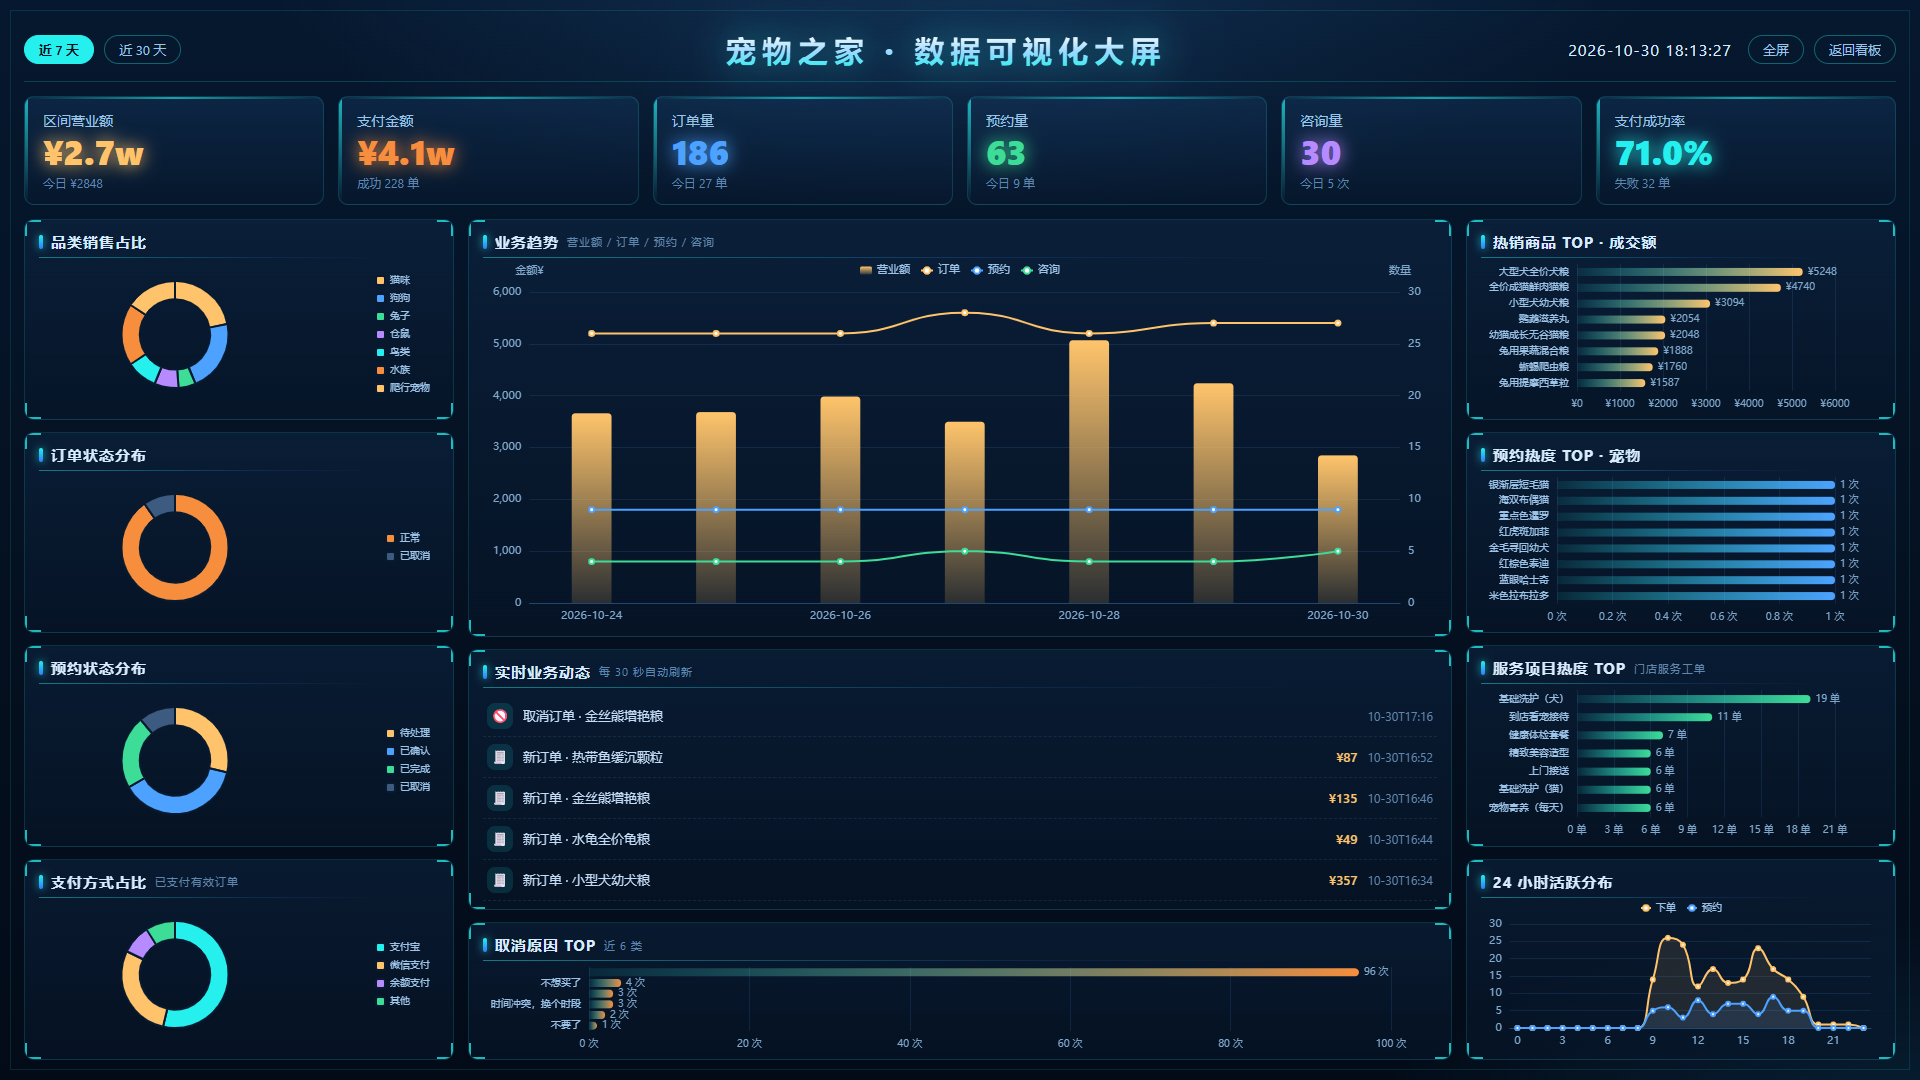
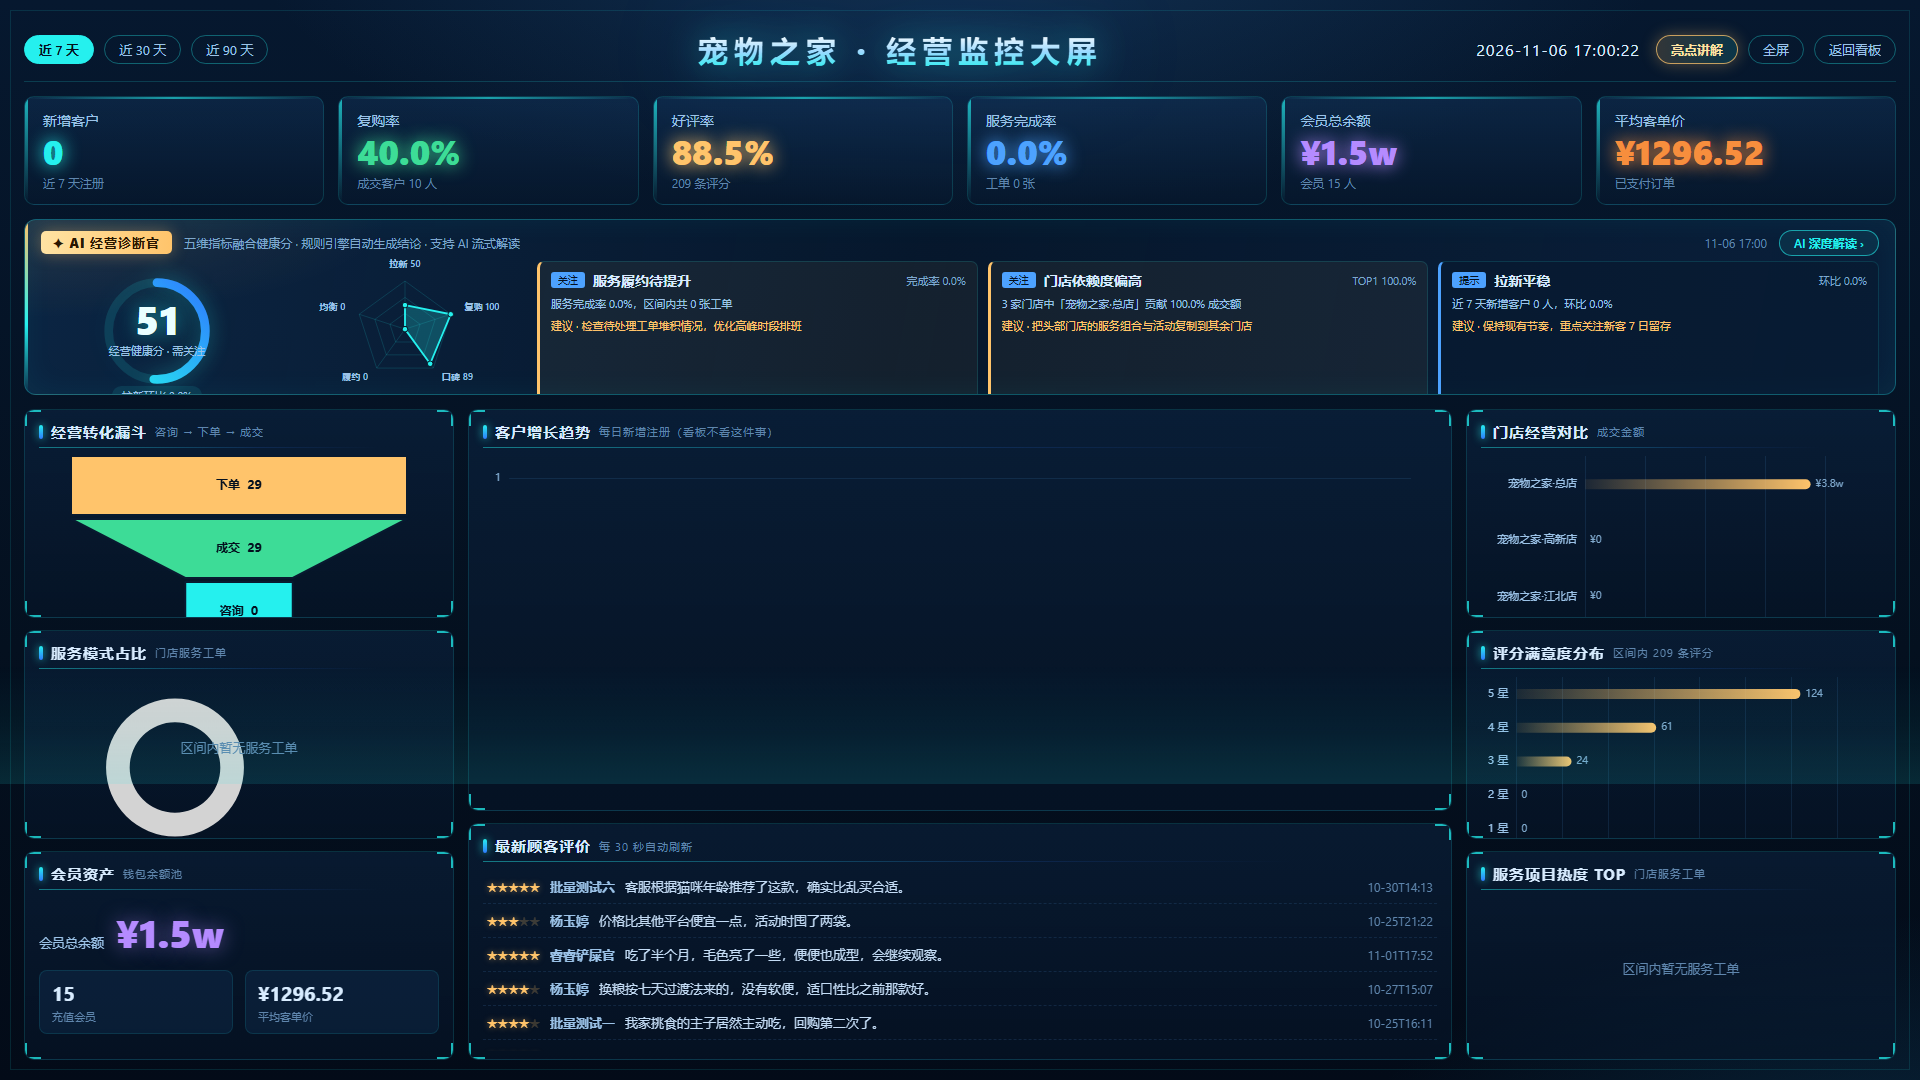
docs(readme): 更新功能详情与全站截图（2026-11 版）
- 界面预览扩到 7 图：首页/宠物粮/在售宠物/宠物详情/智能选宠/看板/大屏
- 大屏描述更新为 AI 经营诊断官 + 8 面板 + 30s 刷新（原 12 面板 60s 已过期）
- 功能清单补充：B 站风评论区（彩色昵称/楼中楼/评论点赞）、首页粮卡就地弹详情、
  宠物页页内改搜、专区页返回首页入口
- 演示数据说明更新为 90 天看板历史 + 近半月评论订单种子
- 新增 cdp_readme_shots.mjs 截图脚本；gitignore 增加 *.tar.gz / shots/

diff --git a/README.md b/README.md
@@ -6,15 +6,19 @@
 
 ## 界面预览
 
-**前台商城首页**
+| 前台商城首页 | 宠物粮专区 |
+| --- | --- |
+| ![前台商城](docs/screenshots/shop-home.png) | ![宠物粮专区](docs/screenshots/shop-food.png) |
 
-![前台商城](docs/screenshots/shop-home.png)
+| 在售宠物 | 宠物详情 |
+| --- | --- |
+| ![在售宠物](docs/screenshots/shop-pets.png) | ![宠物详情](docs/screenshots/shop-pet-detail.png) |
 
-**运营后台 · 数据看板**
+| 智能选宠 | 运营后台 · 数据看板 |
+| --- | --- |
+| ![智能选宠](docs/screenshots/shop-match.png) | ![数据看板](docs/screenshots/admin-dashboard.png) |
 
-![数据看板](docs/screenshots/admin-dashboard.png)
-
-**可视化大屏（1920×1080，可从看板一键切换）**
+**可视化大屏（1920×1080，AI 经营诊断官 + 8 面板，30 秒自动刷新，可从看板一键切换）**
 
 ![可视化大屏](docs/screenshots/admin-bigscreen.png)
 
@@ -22,8 +26,9 @@
 
 ### 前台商城（`/shop/*`）
 
-- **在售宠物**：首页筛选条、评分角标、宠物详情（健康记录、预约入口、社交互动）
-- **宠物粮商城**：14 款在售粮，独立评论/点赞体系（与宠物评论通过 `target_type` 隔离）
+- **在售宠物**：首页筛选条、评分角标、宠物详情（健康记录、预约入口、社交互动）；列表页筛选栏可直接换品种重搜，无需返回首页
+- **宠物粮商城**：14 款在售粮，独立评论/点赞体系（与宠物评论通过 `target_type` 隔离）；首页粮卡片点击就地弹出详情卡片（含评论区），专区页顶部提供返回首页入口
+- **社区化评论区**：B 站风格改版——彩色昵称 + 等级徽章、楼中楼折叠展开、评论点赞（`pet_comment_like` 表防重），宠物详情页与服务预约评价共用同一套组件
 - **购物车与订单**：结算收银台（支付宝 / 微信 / 余额三种通道，余额不足实时提示）、订单分组展示、未支付取消
 - **门店服务预约**：自助预约不绑定宠物，支持联系人 / 地址 / 数量，免费项目自动确认，取消自动退款
 - **AI 智能助手**：接入 Pollinations 免费大模型（OpenAI 兼容、免 Key），SSE 流式输出，意图路由（商品推荐 / 订单咨询 / 智能选宠 / 养宠知识），已支付订单卡片可点击直接发起咨询
@@ -37,7 +42,7 @@
 自研后台界面（非 RuoYi 默认 UI），静态菜单，登录后自动进入数据看板：
 
 - **数据看板**：近 7 / 30 / 90 / 180 天切换、实时动态流、业务趋势、订单 / 预约 / 品类分布、热销 TOP 榜
-- **可视化大屏**（`/admin/bigscreen`）：深色科技风大屏，1920×1080 设计稿等比缩放居中，12 个面板——KPI（营业额 / 支付金额 / 订单 / 预约 / 咨询 / 支付成功率）、四张环形图（品类 / 订单状态 / 预约状态 / **支付方式**）、业务趋势柱线混合图、实时业务动态、热销商品 / 预约热度 / **服务项目热度**三张 TOP 榜、**取消原因 TOP**、24 小时活跃分布；四角描边、扫描光束、标题流光等特效，60s 自动刷新
+- **可视化大屏**（`/admin/bigscreen`）：深色科技风大屏，1920×1080 设计稿等比缩放居中。核心是 **AI 经营诊断官**——多指标融合健康分 + 自动诊断结论（按严重度取前三）+ AI 深度解读（流式输出，超时降级为规则引擎）；配 8 个业务面板：经营转化漏斗、服务模式占比、会员资产、客户增长趋势、最新顾客评价、门店经营对比、评分满意度分布、服务项目热度 TOP；四角描边、扫描光束、标题流光等特效，30s 自动刷新
 - **AI 咨询记录**：咨询问题分门别类（意图统计 KPI + 分类筛选），支持对话回放，15 秒静默轮询实时更新
 - **业务管理**：宠物资料、商品、订单、预约工单（含支付方式 / 收款 / 应付列与筛选）、取消记录快照、用户管理、钱包流水
 - **AI 助手降级链**：流式 → 非流式 → 本地模板兜底，免费档限流自动解析等待秒数重试
@@ -71,7 +76,7 @@ bash start_all.sh
 
 **演示账号**：`admin / admin123`（后台管理员）、`ry / admin123`（普通用户）
 
-**演示数据**：`sql/seed_bigscreen_7days.sql` 可一键灌入近 7 天看板演示数据（订单 / 预约 / 服务工单 / 咨询 / 取消快照，统一 `create_by='seed7'` 标记，脚本尾部附清理语句）。
+**演示数据**：`sql/seed_dashboard_history.sql` 灌入近 90 天看板历史（`create_by='seed'`）；`sql/seed_comments_orders_15d.sql` 灌入近半月评论与订单演示数据（评论 1100+ 条覆盖全部在售宠物与商品，订单 80+ 单含已支付/已完成/已取消，统一 `create_by='seed15d'` / `order_no LIKE 'S15D%'` 标记，脚本头部附幂等清理语句）。
 
 ## 目录结构
 
